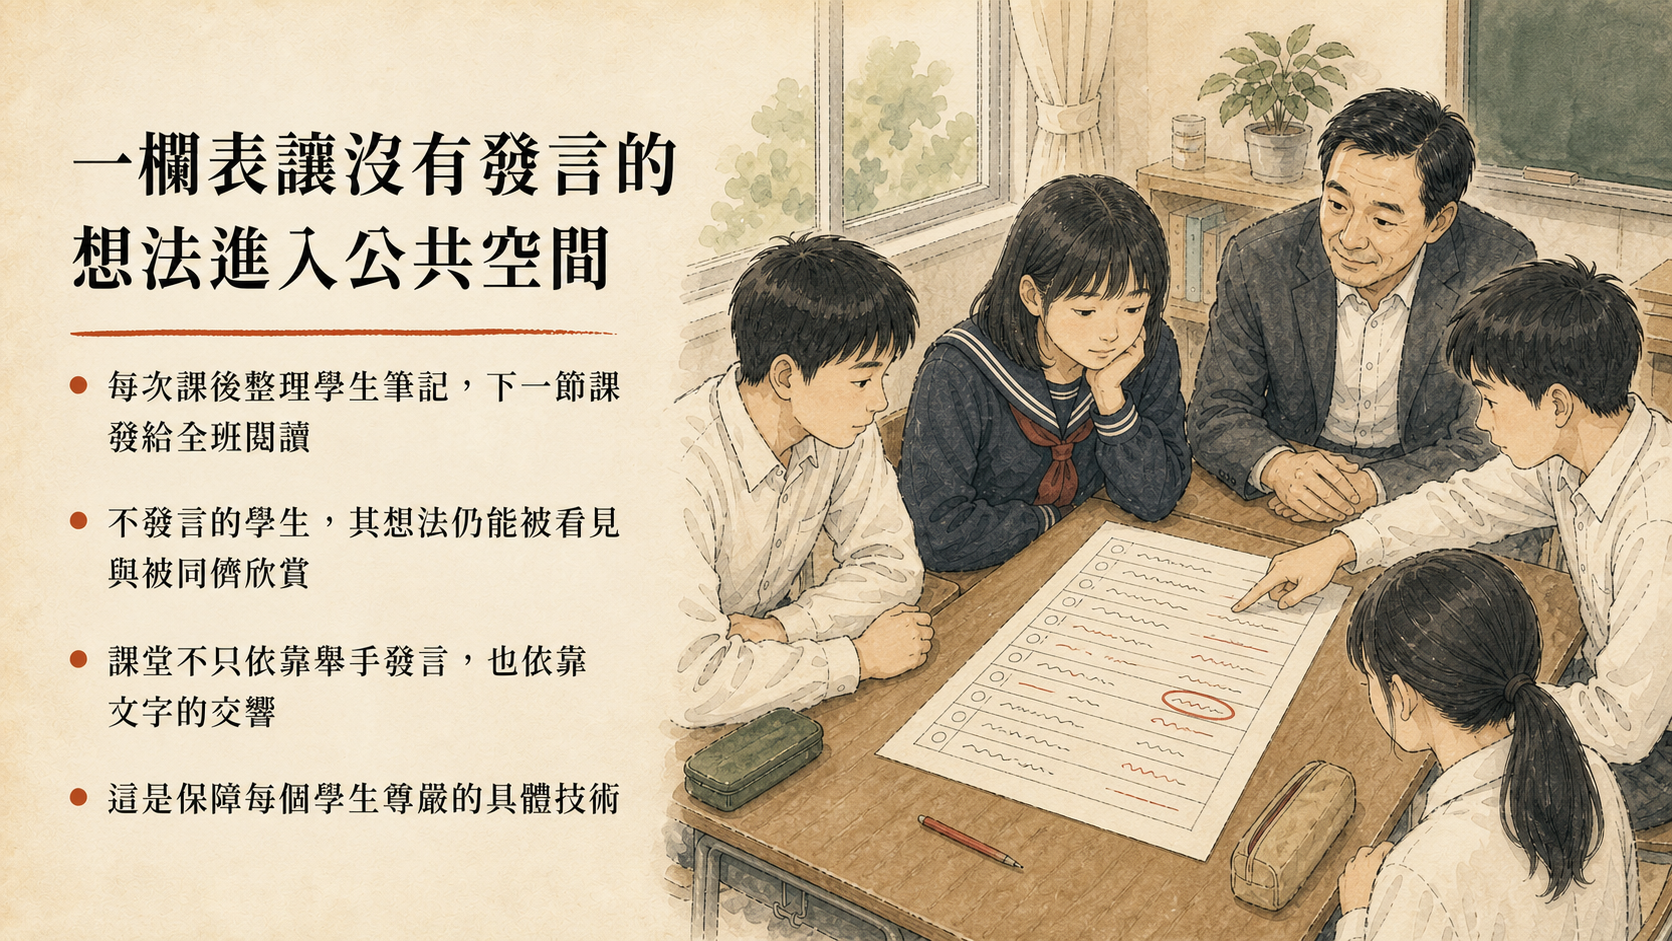
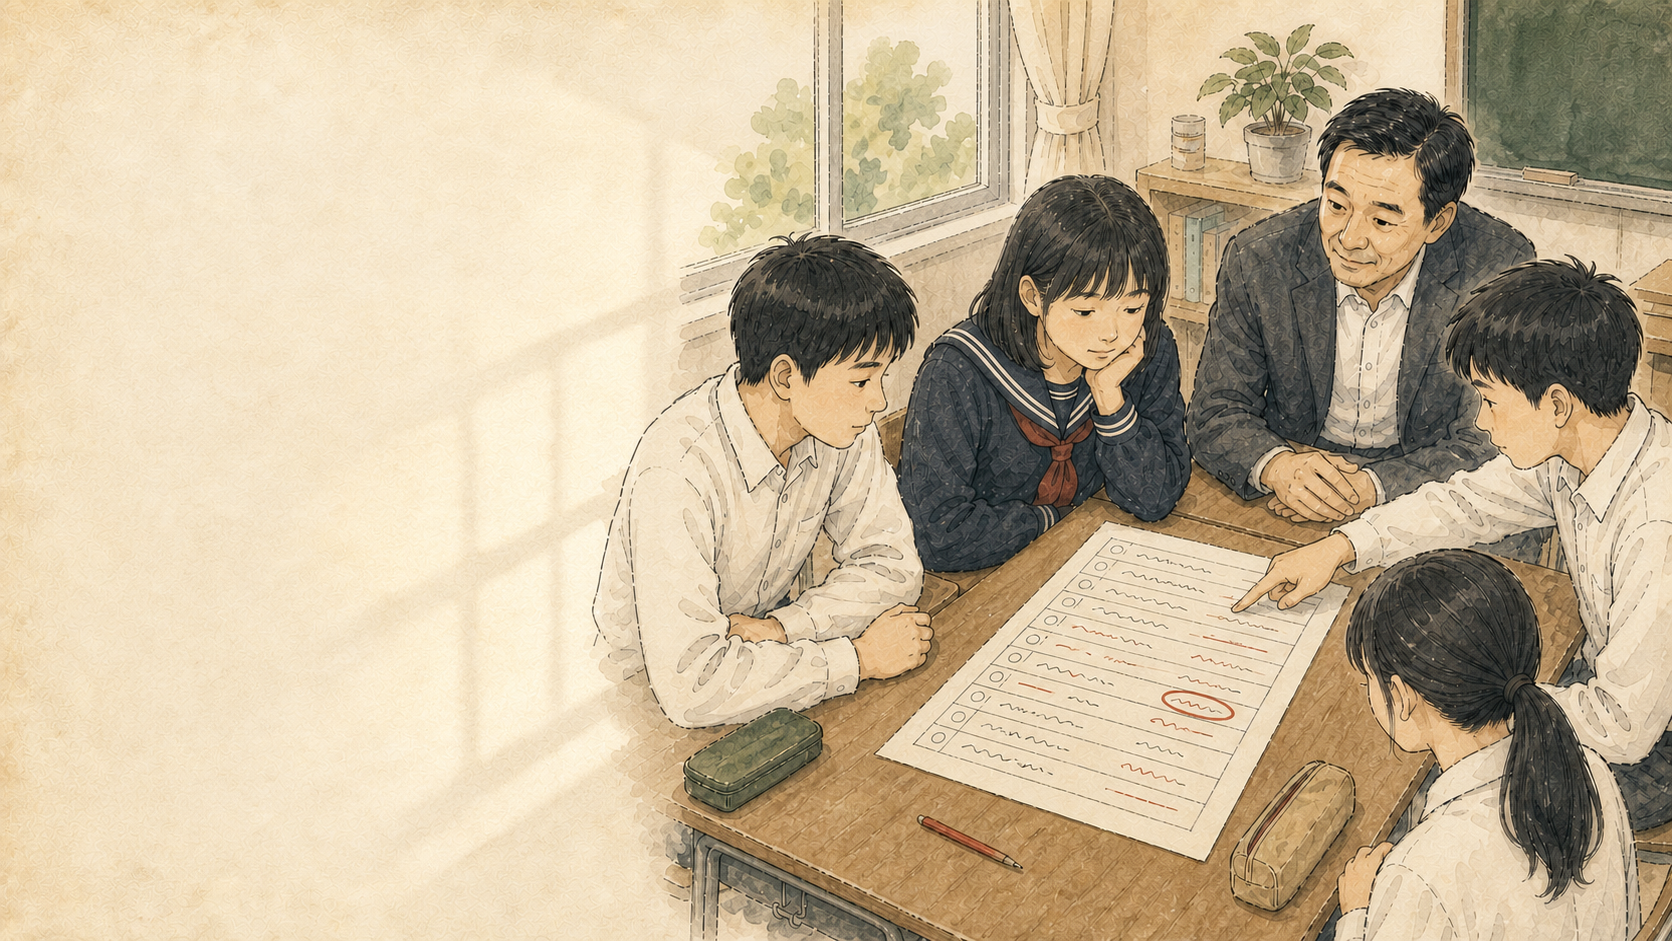
style(hamanosato): 修正白邊框為浮水半透明，並更新乾淨版背景底圖
- 將 HTML 簡報面板白邊框改為 1px rgba(255,255,255,0.22) 並加上 inset 陰影，達成浮水半透明質感

- 替換 origin_image 下 the slide_05.png, slide_08.png, slide_11.png 為無文字乾淨版，修正底圖殘留文字問題

diff --git a/學習共同體課堂影片分析/濱之鄉小學脇坂歸晤社會課/自動車生產議課/output/discussion_concept_deck/discussion_concept_deck_responsive.html b/學習共同體課堂影片分析/濱之鄉小學脇坂歸晤社會課/自動車生產議課/output/discussion_concept_deck/discussion_concept_deck_responsive.html
@@ -17,7 +17,7 @@
   --accent: #af3e1d;
   --accent-light: rgba(175, 62, 29, 0.1);
   --panel-bg: rgba(253, 251, 247, 0.88);
-  --glass-border: rgba(43, 37, 26, 0.08);
+  --glass-border: rgba(255, 255, 255, 0.28);
   --shadow: 0 20px 45px rgba(43, 37, 26, 0.09);
   --nav-bg: rgba(249, 245, 235, 0.85);
   --transition: all 0.4s cubic-bezier(0.16, 1, 0.3, 1);
@@ -190,10 +190,12 @@ body {
   min-height: var(--h);
   padding: clamp(24px, 3.2vw, 42px);
   background: var(--panel-bg);
-  border: 1px solid rgba(255, 255, 255, 0.5);
+  border: 1px solid rgba(255, 255, 255, 0.22);
   border-radius: 24px;
   backdrop-filter: blur(20px);
-  box-shadow: 0 15px 35px rgba(43, 37, 26, 0.08);
+  box-shadow: 
+    0 15px 35px rgba(43, 37, 26, 0.08),
+    inset 0 0 12px rgba(255, 255, 255, 0.25);
   display: flex;
   flex-direction: column;
   justify-content: center;
